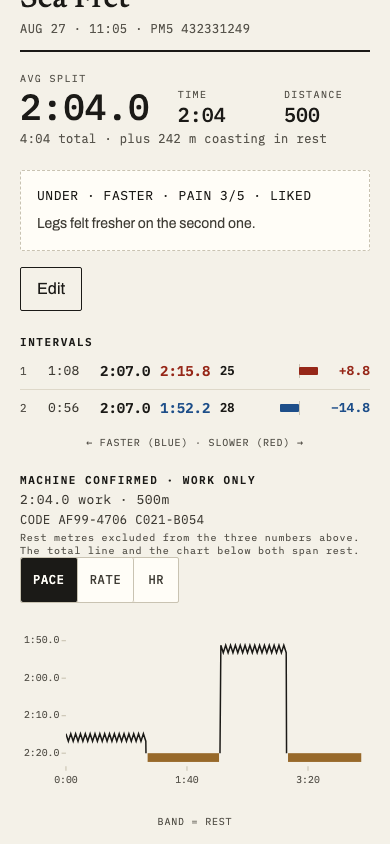
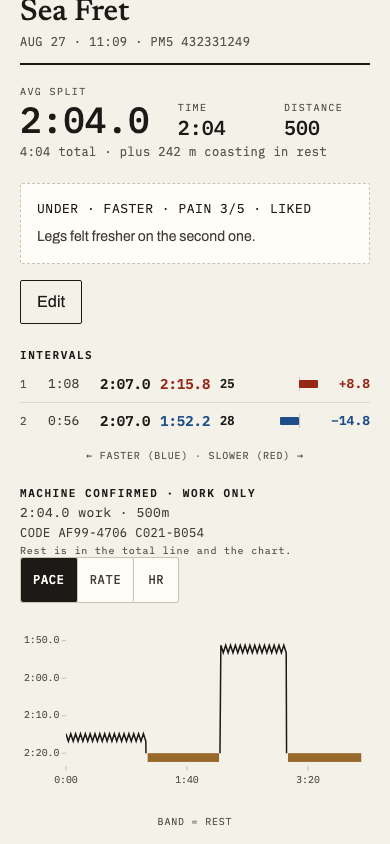
copy: the machine-confirmed caption is one short line
Two sentences restating the block's own WORK ONLY title and then correcting
themselves. The title already says work-only; the only thing left to say is
where rest does appear.

Fourth correction to this caption -- each earlier one bought accuracy with
another clause.

Claude-Session: https://claude.ai/code/session_01UEXqdgDid4Qjd8D5uoRZ3H

diff --git a/app/src/log/FromTheLog.test.tsx b/app/src/log/FromTheLog.test.tsx
@@ -1229,14 +1229,15 @@ describe("FromTheLog — the MACHINE CONFIRMED · WORK ONLY block", () => {
     // wording still argued with the screen — the TOTAL line ("4:04 total
     // · plus 242 m coasting in rest") sits four lines above this caption
     // and is the only thing on screen actually called a total, and it
-    // DOES include rest. New copy separates "the three numbers above"
-    // (work-only) from "the total line and the chart below" (both
-    // rest-inclusive) instead of implying every number above is
-    // rest-free.
+    // DOES include rest.
+    //
+    // FOURTH AND SHORTEST (James, 2026-08-27: "less prose"). Each earlier
+    // correction bought accuracy with another clause, and the result
+    // restated the block's own title before correcting itself. The title
+    // one line up already says WORK ONLY; the only thing left for the
+    // caption to say is where rest DOES appear, which is this sentence.
     expect(
-      screen.getByText(
-        "Rest metres excluded from the three numbers above. The total line and the chart below both span rest.",
-      ),
+      screen.getByText("Rest is in the total line and the chart."),
     ).toBeVisible();
 
     // Placement: below the interval table (§3's own placement rule).

diff --git a/app/src/log/FromTheLog.tsx b/app/src/log/FromTheLog.tsx
@@ -84,9 +84,12 @@ function MachineConfirmedBlock({ row }: { row: StoredLog }) {
       {code !== undefined && (
         <p className="log-machine-confirmed-code">CODE {code}</p>
       )}
+      {/* SHORT ON PURPOSE (James, 2026-08-27: "less prose"). The title one
+          line up already says WORK ONLY, so this only has to say where rest
+          DOES appear. Two sentences naming what it is excluded from was
+          restating the title and then correcting itself. */}
       <p className="log-machine-confirmed-caption">
-        Rest metres excluded from the three numbers above. The total line and
-        the chart below both span rest.
+        Rest is in the total line and the chart.
       </p>
     </div>
   );

diff --git a/app/e2e/screenshots.spec.ts b/app/e2e/screenshots.spec.ts
@@ -2438,9 +2438,7 @@ test("log-detail", async ({ page }) => {
   // (work-only) from "the total line and the chart below" (both
   // rest-inclusive).
   await expect(
-    page.getByText(
-      "Rest metres excluded from the three numbers above. The total line and the chart below both span rest.",
-    ),
+    page.getByText("Rest is in the total line and the chart."),
   ).toBeVisible();
 
   // Dedicated capture: the trace-chart scroll below moves the viewport
